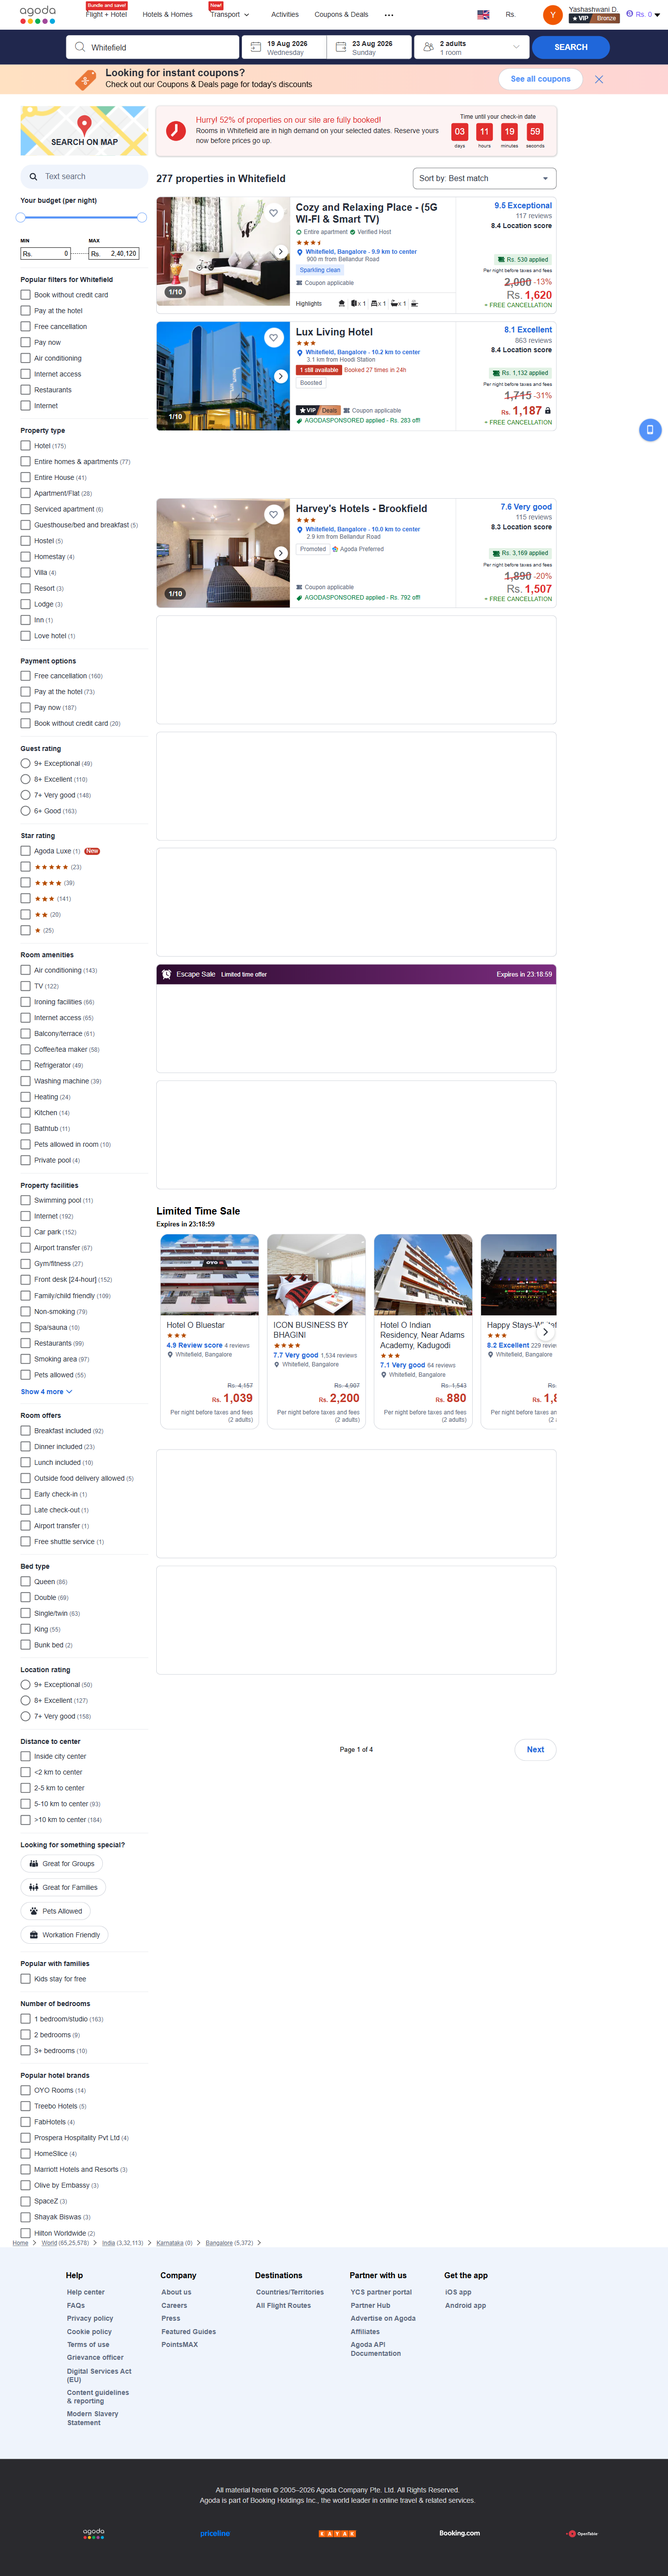
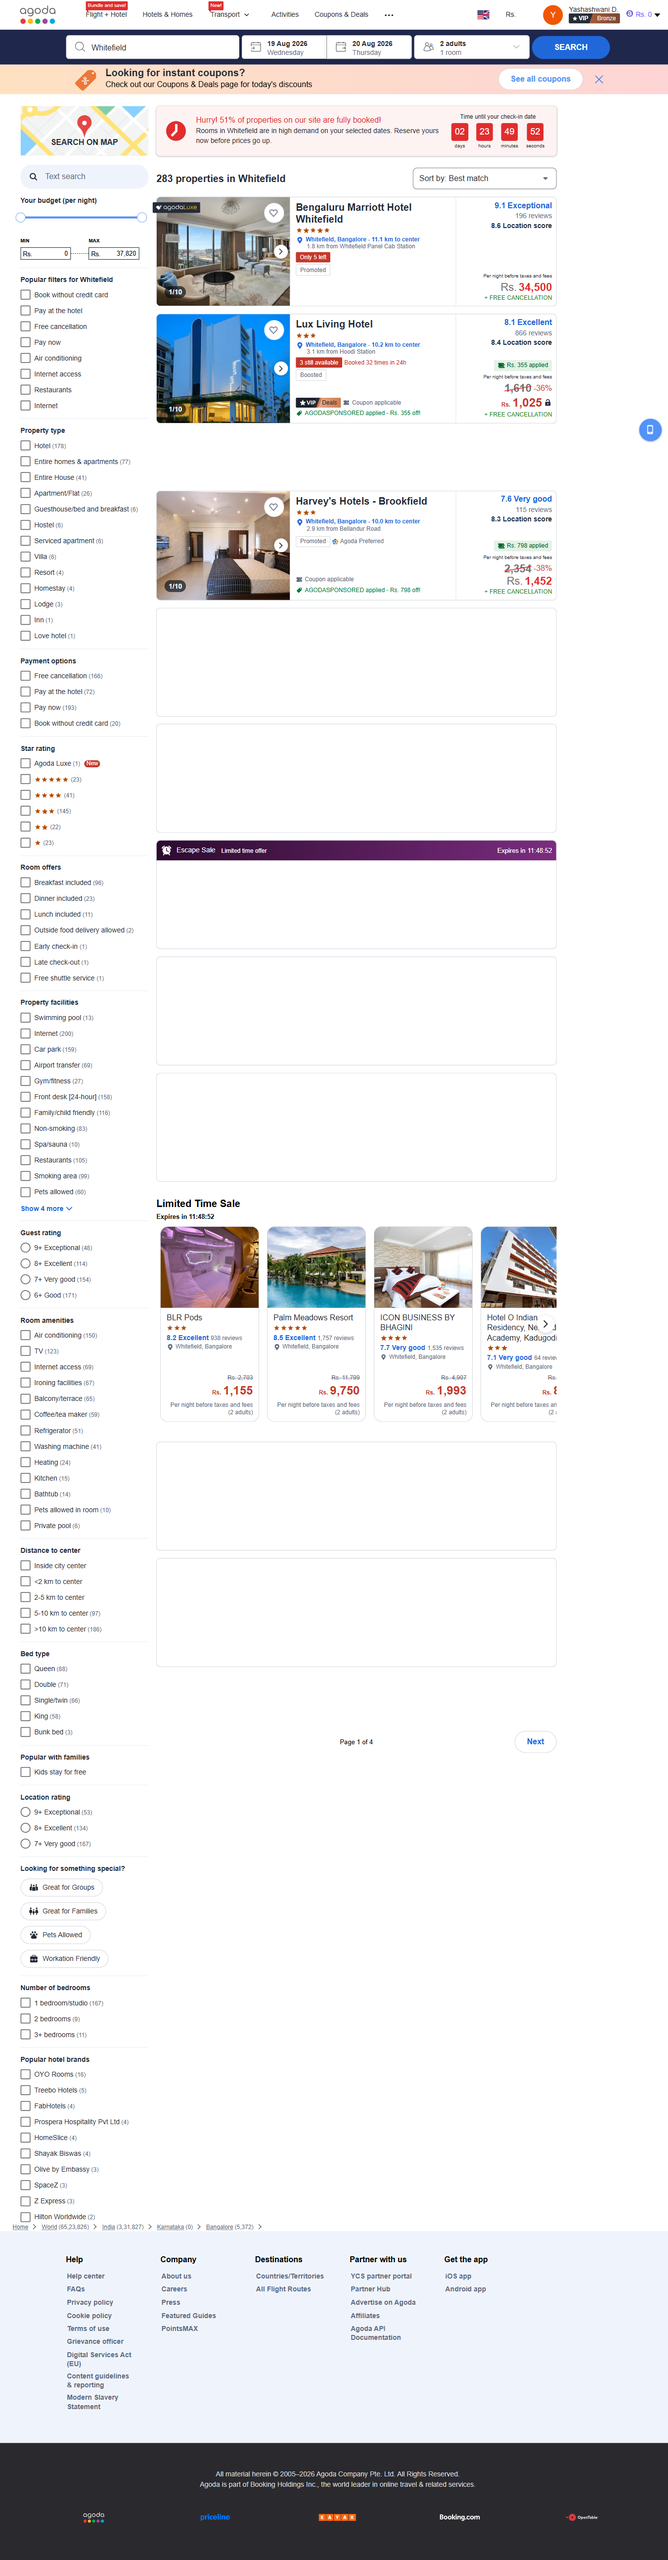
improper formatting

diff --git a/app/scrapers/agoda.py b/app/scrapers/agoda.py
@@ -14,7 +14,7 @@ class AgodaSession(HotelSession):
 
     async def search_hotels(self, destination: str, checkin: str, checkout: str,
                             adults: int = 2, children: int = 0, rooms: int = 1,
-                            limit: int = 5) -> List[Hotel]:
+                            limit: int = 10) -> List[Hotel]:
         # 1. Go to Agoda homepage
         await self.page.goto("https://www.agoda.com/", wait_until="domcontentloaded")
         await self._kill_popups()
@@ -279,35 +279,35 @@ class AgodaSession(HotelSession):
         except Exception:
             print("⚠ Timeout waiting for hotel cards; proceeding with current DOM.")
 
-        # 8. Scrape hotel cards using content-based extraction (Zepto-style)
-        await self.page.wait_for_load_state("networkidle", timeout=15000)
-        
-        # Take a screenshot for debugging
+                # 7. Wait for results page to load
+        await self.page.wait_for_load_state("networkidle", timeout=35000)
         await self.page.screenshot(path="agoda_search_results.png", full_page=True)
         print("📸 Screenshot saved as agoda_search_results.png")
-        
-        print("🔍 Scraping hotel cards...")
 
-        # Locator for card containers (stable selectors)
-        card_selector = 'div[data-selenium="hotel-item"], div[data-testid="property-card"], li[data-selenium="hotel-item"]'
+        # 8. Scrape hotel cards using stable selectors
+        print("🔍 Scraping hotel cards with stable selectors...")
+
+        # Primary card selector (from your inspection)
+        card_selector = 'li[data-selenium="hotel-item"]'
         cards = self.page.locator(card_selector)
         card_count = await cards.count()
 
-        # Fallback: if no cards with standard selector, find by URL pattern
         if card_count == 0:
-            print("⚠ No cards with standard selector; falling back to URL pattern.")
-            links = self.page.locator('a[href*="/hotel/"], a[href*="/en-in/hotel/"]')
-            link_count = await links.count()
-            if link_count == 0:
+            # Fallback: try alternative selectors
+            print("⚠ No cards with 'li[data-selenium=\"hotel-item\"]'. Trying alternatives...")
+            alt_selectors = ['div[data-testid="property-card"]', 'div[data-selenium="hotel-item"]']
+            for sel in alt_selectors:
+                cards = self.page.locator(sel)
+                card_count = await cards.count()
+                if card_count > 0:
+                    print(f"✅ Found {card_count} cards using '{sel}'.")
+                    break
+            if card_count == 0:
                 await self.page.screenshot(path="agoda_no_cards.png")
-                print("📸 No card links found. Saved agoda_no_cards.png")
+                print("📸 No cards found. Saved agoda_no_cards.png")
                 return []
-            # Use the parent containers of the links
-            cards = links.locator('xpath=ancestor::div[1]')
-            card_count = await cards.count()
-            print(f"🔍 Found {card_count} cards via URL pattern.")
-        else:
-            print(f"🔍 Found {card_count} card elements.")
+
+        print(f"🔍 Found {card_count} card elements.")
 
         hotels = []
         for i in range(min(card_count, limit * 3)):
@@ -315,60 +315,73 @@ class AgodaSession(HotelSession):
                 break
             card = cards.nth(i)
 
-            # 1. Get all visible text lines
-            full_text = await card.inner_text()
-            lines = [line.strip() for line in full_text.splitlines() if line.strip()]
-
-            # Helper: find a line matching a pattern
-            def find_line(patterns):
-                for line in lines:
-                    for pat in patterns:
-                        if pat.search(line):
-                            return line
-                return None
-
-            # 2. Extract Name: first line that is not a rating/price and length > 3
-            name = None
-            for line in lines:
-                if (not line.startswith(('₹', 'Rs.')) and
-                    not re.search(r'^\d+\.?\d*\s*(Excellent|Very Good|Good|Okay|Poor)', line) and
-                    not re.search(r'^\d+\.?\d*\s*/\s*\d+', line) and
-                    len(line) > 3):
-                    name = line
-                    break
-            if not name:
-                # Fallback: first line
-                name = lines[0] if lines else None
+            # 1. Hotel name & distance from header
+            header = card.locator('header[data-element-name="property-info-header"]')
+            header_html = await card.locator('header[data-element-name="property-info-header"]').inner_html()
+            print(header_html[:800])
+            header_text = await header.inner_text() if await header.count() > 0 else ''
+            name = ''
+            distance = ''
+            if header_text:
+                import re
+                # Remove star symbols
+                clean_header = re.sub(r'[★☆✩✪✫✬✭✮✯✰✱✲✳✴✵✶✷✸✹✺✻✼✽✾✿❀❁❂❃❄❅❆❇❈❉❊❋]', '', header_text).strip()
+                dist_match = re.search(r'(\d+\.?\d*)\s*km', clean_header, re.I)
+                if dist_match:
+                    distance = dist_match.group(0)
+                    name = clean_header.replace(distance, '').strip()
+                else:
+                    name = clean_header.strip()
             if not name or len(name) < 3:
+                raw_html = await card.inner_html()
+                print(f"⏭ SKIP card {i}: no header match. First 300 chars:\n{raw_html[:300]}")
                 continue
 
-            # 3. Extract Price: line containing ₹ or Rs.
-            price_line = find_line([re.compile(r'₹\s*[\d,]+(\.\d+)?'), re.compile(r'Rs\.\s*[\d,]+(\.\d+)?')])
-            price = None
-            if price_line:
-                # Extract digits and dot
-                digits = ''.join(ch for ch in price_line if ch.isdigit() or ch == '.')
+            # 2. Price
+            # 2. Price – with debug
+            for _ in range(6):
+                await self.page.mouse.wheel(0, 1500)
+                await self.page.wait_for_timeout(400)
+            await self.page.wait_for_timeout(1000)
+            try:
+                await card.locator('span[data-selenium="display-price"]').wait_for(timeout=2000)
+            except Exception:
+                pass
+            price_el = card.locator('span[data-selenium="display-price"]')
+            price_raw = None
+            if await price_el.count() > 0:
+                price_raw = await price_el.text_content()
+                print(f"✅ DEBUG: Price locator found for '{name}': raw text = '{price_raw}'")
+                digits = ''.join(ch for ch in price_raw if ch.isdigit() or ch == '.')
                 price = float(digits) if digits else None
+            else:
+                print(f"❌ DEBUG: Price locator NOT found for '{name}'")
+                price = None
 
-            # 4. Extract Rating: line with number and "Excellent", "Very Good", or "X/10"
-            rating_line = find_line([re.compile(r'\d+\.?\d*\s*(Excellent|Very Good|Good|Okay|Poor)'),
-                                    re.compile(r'\d+\.?\d*\s*/\s*\d+')])
+            # 3. Rating – use the review container (no strict mode)
+            review_container = card.locator('[data-element-name="property-card-review"]')
             rating = None
-            if rating_line:
-                match = re.search(r'(\d+\.?\d*)', rating_line)
-                if match:
-                    rating = float(match.group(1))
+            if await review_container.count() > 0:
+                review_text = await review_container.text_content()
+                if review_text:
+                    # Extract rating from text like "Average rating Excellent 8.0 out of 10 with 1,009 reviews"
+                    match = re.search(r'(\d+\.?\d*)\s*(?:out of|Excellent|Very Good|Good)', review_text, re.I)
+                    if match:
+                        rating = float(match.group(1))
 
-            # 5. Extract Address (optional): look for a line containing a city name or "km"
-            # We'll skip this for now; we can use destination as fallback.
-
-            # 6. Detail URL
+            # 4. Detail URL
             link_el = card.locator('a').first
             detail_url = await link_el.get_attribute('href') if await link_el.count() > 0 else None
             if detail_url and not detail_url.startswith('http'):
                 detail_url = 'https://www.agoda.com' + detail_url
 
             hotel_id = detail_url.split('/')[-2] if detail_url else f'agoda-{i}'
+
+            # 5. Filter out non-hotel properties
+            full_text = await card.inner_text()
+            if re.search(r'(Entire home|Private room|Homes & Apts)', full_text, re.I):
+                print(f"⏭ Skipping non-hotel: {name}")
+                continue
 
             hotels.append(
                 Hotel(
@@ -377,11 +390,11 @@ class AgodaSession(HotelSession):
                     source="Agoda",
                     rating=rating,
                     price_per_night=price,
-                    address=destination,  # we can use destination as address
-                    detail_url=detail_url
+                    address=destination,
+                    detail_url=detail_url,
                 )
             )
-            print(f"🏨 Found: {name} — ₹{price} — rating {rating}")
+            print(f"🏨 Found: {name} — ₹{price} — rating {rating} (distance: {distance})")
 
         print(f"🏨 Scraped {len(hotels)} hotels from Agoda.")
         return hotels
